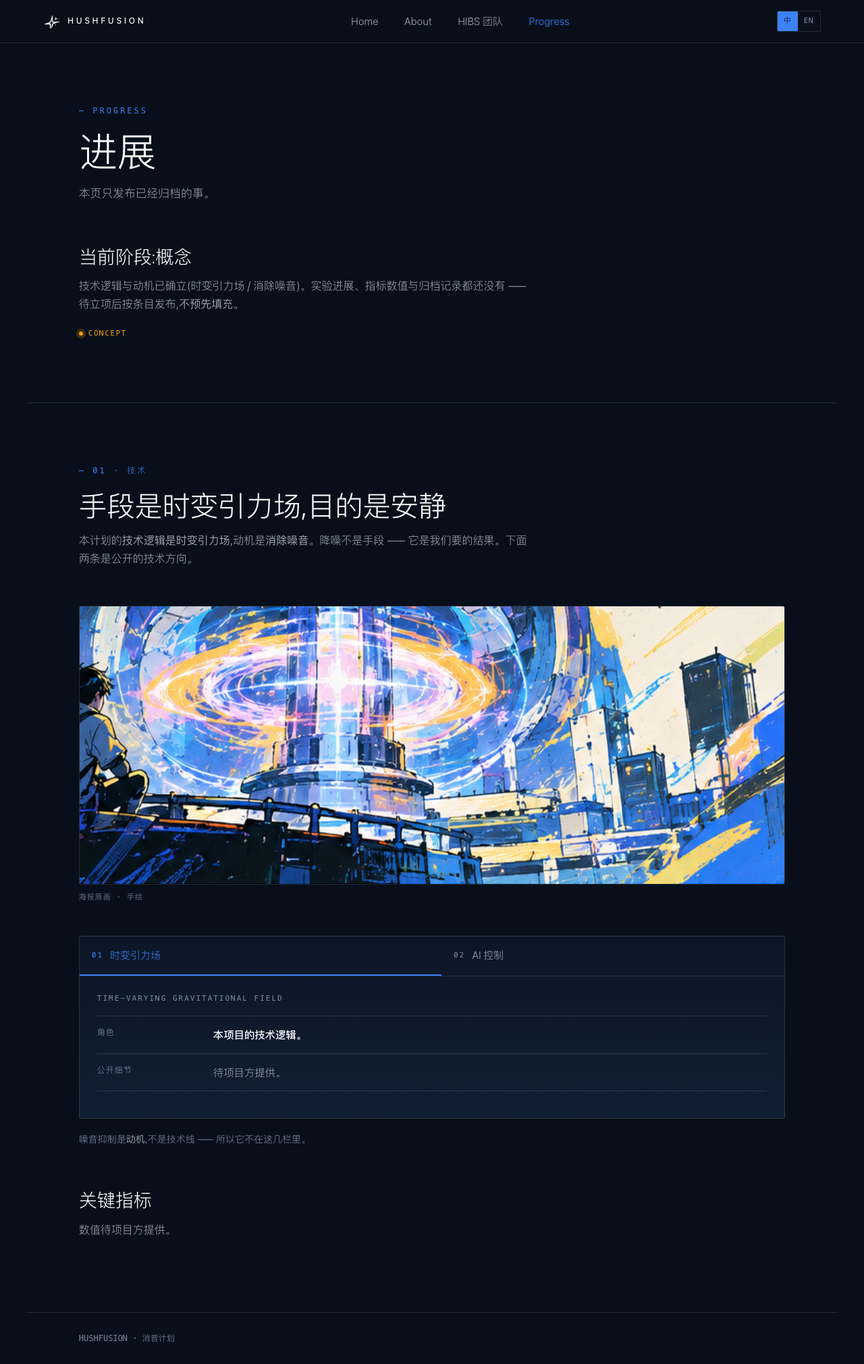
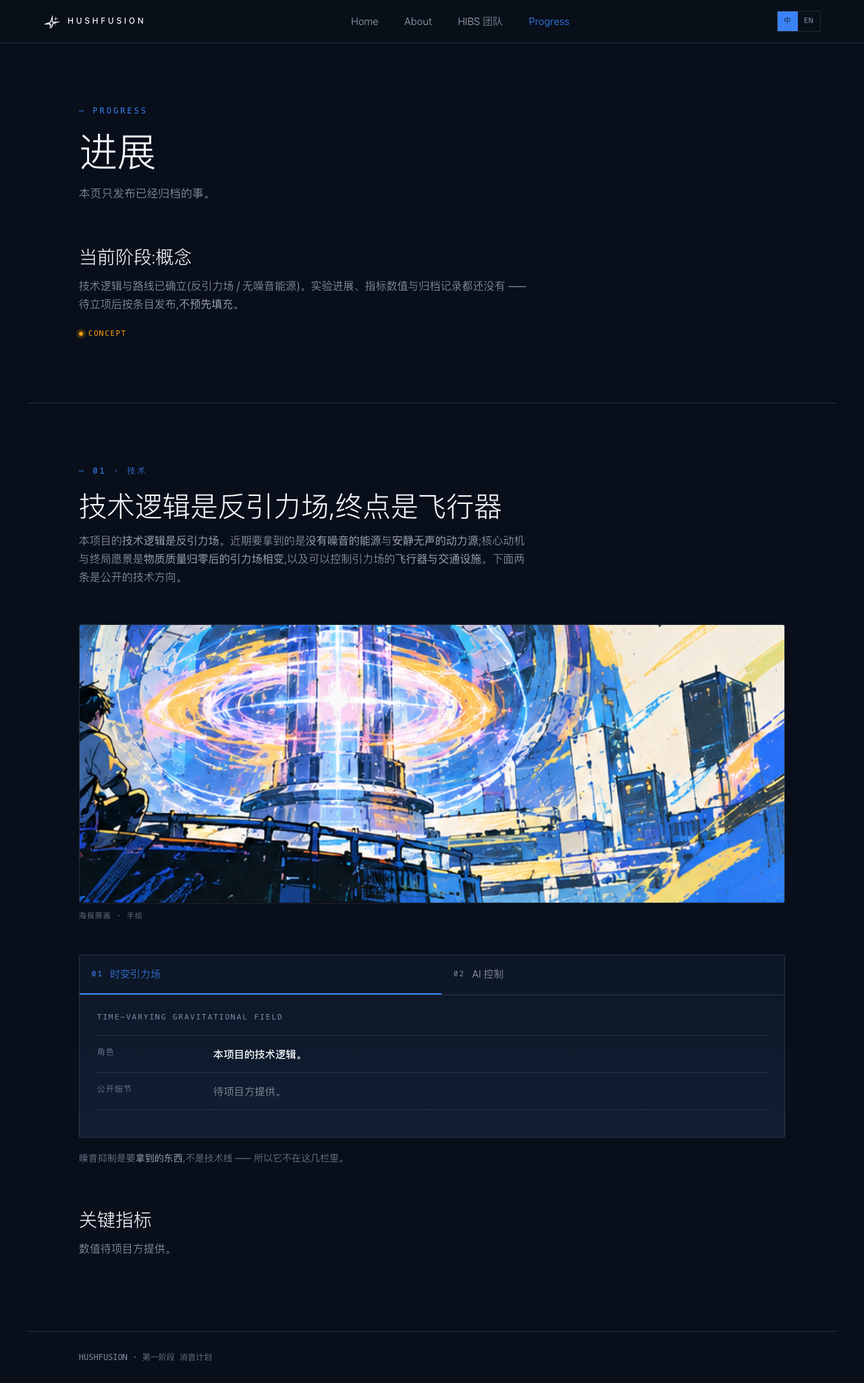
feat(content): 动机升格为可控引力场飞行器,消音计划降为第一阶段
需方 2026-09-17 口述(逐字存档见 docs/CONTENT-SOURCES.md §二·六):
  用反引力场做到无噪音、无限能源,制造安静无声的动力源;
  最核心的动机是可以控制引力场的飞行器交通设施;
  消音计划改成阶段性;最核心的愿景是物质质量归零后的引力场相变,以及后续的飞行器。

序页(需方要求:序页里要写愿景、物质质量归零)
- 新增愿景段「物质质量归零,引力场发生相变 —— 我们要抵达的地方,是可以控制引力场的飞行器与交通设施。」
- 摘要段改为「用反引力场做到两件事:没有噪音与无限能源,并由此得到安静无声的动力源。」
- 新增 mono 路径链:反引力场 → 无噪音 · 无限能源 → 安静无声的动力源 → 物质质量归零 →
  引力场相变 → 可控引力场飞行器(取代旧的一句话口径)
- 消音计划加 .intro-phase「第一阶段」徽标 —— 消音保留但不再占主要篇幅

全站
- 01 节「让世界更安静」→「从动力源到飞行器」,导语改为「消音只是第一段」
- 关于页 h1 →「为什么是聚变,为什么是引力场」;「技术逻辑与动机」→「技术逻辑 · 动机 · 愿景」四层
- 技术页 h2 →「技术逻辑是反引力场,终点是飞行器」;口径段四层重写
- 四页标题/描述/页脚同步(页脚:第一阶段 消音计划);?v=12 → 13
- 文案纪律:只修饰措辞,不增加源里没有的事实(飞行器形态/速度/载重、相变机制、指标时间点一律不写)

文档
- CONTENT-SOURCES.md:口径表升格 + 新增 §二·六(需方原话逐字 + 逐句对应表 + 明确列出没写进去的东西)
- DESIGN-PLAN.md:§0 口径更新、§7.5.2 本轮改写留档;README 中英同步

验收:本地 111/111,线上 111/111

diff --git a/index.html b/index.html
@@ -3,11 +3,11 @@
 <head>
 <meta charset="UTF-8">
 <meta name="viewport" content="width=device-width, initial-scale=1">
-<title>HUSHFUSION 消音计划 — 可控核聚变,在寂静中点燃星辰</title>
-<meta name="description" content="HUSHFUSION 消音计划:技术逻辑是时变引力场。Controlled Fusion Through the Silence.">
+<title>HUSHFUSION — 反引力场 · 无噪音能源 · 可控引力场飞行器</title>
+<meta name="description" content="HUSHFUSION:用反引力场换取没有噪音的能源与安静无声的动力源;终局是物质质量归零后的引力场相变,以及可控引力场的飞行器。消音计划是第一阶段。">
 <link rel="icon" href="icons/favicon-32.png" sizes="32x32">
 <link rel="apple-touch-icon" href="icons/apple-touch-icon.png">
-<link rel="stylesheet" href="style.css?v=12">
+<link rel="stylesheet" href="style.css?v=13">
 </head>
 <body>
 
@@ -50,15 +50,13 @@
   <!-- ◆ 序厅 -->
   <section class="intro" id="intro">
     <div class="intro-inner">
-      <p class="kicker">Controlled Fusion · Time-Varying Gravity · AI Control</p>
+      <p class="kicker" data-zh="反引力场 · 无噪音能源 · 可控引力场飞行器" data-en="Anti-Gravity Field · Silent Energy · Gravity-Controlled Flight">反引力场 · 无噪音能源 · 可控引力场飞行器</p>
       <h1 class="intro-h1">HUSHFUSION</h1>
-      <p class="intro-cn">消音计划</p>
+      <p class="intro-cn">消音计划<span class="intro-phase">第一阶段</span></p>
       <p class="intro-en">Controlled Fusion Through the Silence.</p>
-      <p class="lede" data-zh="HUSHFUSION 是一个以可控核聚变为核心的科研项目,技术逻辑是 <strong>时变引力场</strong>。我们相信,真正的能源自由,源于对混乱的掌控与对宁静的追求。" data-en="HUSHFUSION is a research project built around controlled fusion; its technical logic is a <strong>time-varying gravitational field</strong>. We believe real energy freedom comes from mastering chaos and pursuing quiet." data-html="1">HUSHFUSION 是一个以可控核聚变为核心的科研项目,技术逻辑是 <strong>时变引力场</strong>。我们相信,真正的能源自由,源于对混乱的掌控与对宁静的追求。</p>
-            <p class="lede" style="margin-top:14px"
-         data-zh="技术逻辑是 &lt;strong&gt;时变引力场&lt;/strong&gt;,动机是 &lt;strong&gt;消除噪音&lt;/strong&gt;。"
-         data-en="The technical logic is a &lt;strong&gt;time-varying gravitational field&lt;/strong&gt;; the motive is &lt;strong&gt;silencing noise&lt;/strong&gt;."
-         data-html="1">技术逻辑是 <strong>时变引力场</strong>,动机是 <strong>消除噪音</strong>。</p>
+      <p class="lede" data-zh="物质质量归零,引力场发生相变 —— 我们要抵达的地方,是&lt;strong&gt;可以控制引力场的飞行器与交通设施&lt;/strong&gt;。" data-en="Mass goes to zero and the gravitational field undergoes a phase transition — where we are headed is &lt;strong&gt;flight vehicles and transport infrastructure built on a controlled gravitational field&lt;/strong&gt;." data-html="1">物质质量归零,引力场发生相变 —— 我们要抵达的地方,是<strong>可以控制引力场的飞行器与交通设施</strong>。</p>
+      <p class="lede" style="margin-top:14px" data-zh="HUSHFUSION 是一个以可控核聚变为起点的科研项目,用&lt;strong&gt;反引力场&lt;/strong&gt;做到两件事:&lt;strong&gt;没有噪音&lt;/strong&gt;与&lt;strong&gt;无限能源&lt;/strong&gt;,并由此得到安静无声的动力源。" data-en="HUSHFUSION starts from controlled fusion and uses an &lt;strong&gt;anti-gravity field&lt;/strong&gt; to achieve two things — &lt;strong&gt;no noise&lt;/strong&gt; and &lt;strong&gt;unlimited energy&lt;/strong&gt; — yielding a power source that is silent." data-html="1">HUSHFUSION 是一个以可控核聚变为起点的科研项目,用<strong>反引力场</strong>做到两件事:<strong>没有噪音</strong>与<strong>无限能源</strong>,并由此得到安静无声的动力源。</p>
+            <p class="intro-path" data-zh="反引力场 → 无噪音 · 无限能源 → 安静无声的动力源 → 物质质量归零 → 引力场相变 → 可控引力场飞行器" data-en="Anti-gravity field → no noise · unlimited energy → silent power → mass to zero → gravitational phase transition → gravity-controlled flight">反引力场 → 无噪音 · 无限能源 → 安静无声的动力源 → 物质质量归零 → 引力场相变 → 可控引力场飞行器</p>
       <div class="intro-cta">
         <a class="quiet-cta quiet-cta--solid" href="progress.html#tech">探索更多 <span aria-hidden="true">→</span></a>
         <a class="quiet-cta" href="progress.html">阅读进展</a>
@@ -90,8 +88,8 @@
   <section class="band" id="quiet">
     <div class="section-head reveal">
       <p class="kicker">— 01 · 它要解决什么</p>
-      <h2 class="section-title" data-zh="让世界更安静" data-en="Making fusion quieter">让世界更安静</h2>
-      <p class="section-lede" data-zh="聚变的难点不是「点火」,而是<strong>把混乱按住</strong>。等离子体每一毫秒都在抖,我们要的不是更响的控制,而是一个安静的场 —— 这就是「消音」的含义。" data-en="The hard part of fusion is not ignition — it is <strong>holding the chaos still</strong>. The plasma wobbles every millisecond; what we want is not louder control but a quieter field — that is what “hush” means." data-html="1">聚变的难点不是「点火」,而是<strong>把混乱按住</strong>。等离子体每一毫秒都在抖,我们要的不是更响的控制,而是一个安静的场 —— 这就是「消音」的含义。</p>
+      <h2 class="section-title" data-zh="从动力源到飞行器" data-en="From a power source to flight">从动力源到飞行器</h2>
+      <p class="section-lede" data-zh="聚变的难点不是「点火」,而是把混乱按住 —— 但消音只是第一段。这条路通向的是&lt;strong&gt;物质质量归零后的引力场相变&lt;/strong&gt;。" data-en="The hard part of fusion is not ignition but holding the chaos still — yet silencing is only the first stretch. The road leads to &lt;strong&gt;the gravitational phase transition that follows mass going to zero&lt;/strong&gt;." data-html="1">聚变的难点不是「点火」,而是把混乱按住 —— 但消音只是第一段。这条路通向的是<strong>物质质量归零后的引力场相变</strong>。</p>
     </div>
 
     <div class="split reveal">
@@ -134,10 +132,7 @@
     <div class="section-head reveal">
       <p class="kicker">— 02 · Status</p>
       <h2 class="section-title" data-zh="当前阶段" data-en="Current stage">当前阶段</h2>
-      <p class="section-lede"
-         data-zh="项目处于&lt;strong&gt;概念阶段&lt;/strong&gt;:技术逻辑与动机已确立,实验进展待立项后按归档发布。"
-         data-en="The project is at the &lt;strong&gt;concept stage&lt;/strong&gt;: the technical logic and the motive are settled; experimental progress will be published once it is archived."
-         data-html="1">项目处于<strong>概念阶段</strong>:技术逻辑与动机已确立,实验进展待立项后按归档发布。</p>
+      <p class="section-lede" data-zh="第一阶段「消音计划」处于&lt;strong&gt;概念阶段&lt;/strong&gt;:技术逻辑与路线已确立,实验进展待立项后按归档发布。" data-en="The first phase — the hush plan — is at the &lt;strong&gt;concept stage&lt;/strong&gt;: the technical logic and the route are settled; experimental progress is published once archived." data-html="1">第一阶段「消音计划」处于<strong>概念阶段</strong>:技术逻辑与路线已确立,实验进展待立项后按归档发布。</p>
     </div>
     <p><span class="status">Concept</span></p>
     <p style="margin-top:26px"><a class="see-all" href="progress.html"
@@ -150,10 +145,10 @@
 
 <!-- ◆ 页脚 -->
 <footer class="foot">
-  <span>HUSHFUSION · 消音计划</span>
+  <span>HUSHFUSION · 第一阶段 消音计划</span>
   <span>Controlled Fusion Through the Silence.</span>
 </footer>
 
-<script src="app.js?v=12" defer></script>
+<script src="app.js?v=13" defer></script>
 </body>
 </html>

diff --git a/about.html b/about.html
@@ -3,11 +3,11 @@
 <head>
 <meta charset="UTF-8">
 <meta name="viewport" content="width=device-width, initial-scale=1">
-<title>关于 · HUSHFUSION 消音计划</title>
-<meta name="description" content="HUSHFUSION 的项目自述:为什么是聚变,为什么是「消音」。">
+<title>关于 · HUSHFUSION</title>
+<meta name="description" content="HUSHFUSION 的项目自述:技术逻辑是反引力场,近期要拿到没有噪音的能源与安静无声的动力源,终局愿景是物质质量归零后的引力场相变与可控引力场的飞行器。">
 <link rel="icon" href="icons/favicon-32.png" sizes="32x32">
 <link rel="apple-touch-icon" href="icons/apple-touch-icon.png">
-<link rel="stylesheet" href="style.css?v=12">
+<link rel="stylesheet" href="style.css?v=13">
 </head>
 <body>
 
@@ -39,21 +39,15 @@
   <section class="band" id="about">
     <div class="section-head reveal">
       <p class="kicker">— About · 项目自述</p>
-      <h1 class="display" data-zh="为什么是聚变,<br>为什么是「消音」" data-en="Why fusion,<br>and why “hush”" data-html="1">为什么是聚变,<br>为什么是「消音」</h1>
-      <p class="lede" data-zh="HUSHFUSION 是一个以可控核聚变为核心的科研项目,技术逻辑是 <strong>时变引力场</strong>。我们相信,真正的能源自由,源于对混乱的掌控与对宁静的追求。" data-en="HUSHFUSION is a research project built around controlled fusion; its technical logic is a <strong>time-varying gravitational field</strong>. We believe real energy freedom comes from mastering chaos and pursuing quiet." data-html="1">HUSHFUSION 是一个以可控核聚变为核心的科研项目,技术逻辑是 <strong>时变引力场</strong>。我们相信,真正的能源自由,源于对混乱的掌控与对宁静的追求。</p>
+      <h1 class="display" data-zh="为什么是聚变,&lt;br&gt;为什么是引力场" data-en="Why fusion,&lt;br&gt;and why a gravitational field" data-html="1">为什么是聚变,<br>为什么是引力场</h1>
+      <p class="lede" data-zh="HUSHFUSION 从可控核聚变起步,用&lt;strong&gt;反引力场&lt;/strong&gt;换取没有噪音的能源与安静无声的动力源;再往前,是物质质量归零后的引力场相变,与可以控制引力场的飞行器。" data-en="HUSHFUSION starts from controlled fusion and uses an &lt;strong&gt;anti-gravity field&lt;/strong&gt; to obtain energy without noise and a silent power source; further ahead lie the gravitational phase transition that follows mass going to zero, and gravity-controlled flight vehicles." data-html="1">HUSHFUSION 从可控核聚变起步,用<strong>反引力场</strong>换取没有噪音的能源与安静无声的动力源;再往前,是物质质量归零后的引力场相变,与可以控制引力场的飞行器。</p>
     </div>
 
     <div class="split reveal">
       <div>
-        <p class="kicker kicker--muted">技术逻辑与动机</p>
-        <p style="font-size:1.05rem;color:var(--ink-2);max-width:38em">
-          <span class="hl">技术逻辑</span>:时变引力场。
-          <span class="hl">动机</span>:消除噪音。
-        </p>
-        <p style="font-size:1.05rem;color:var(--ink-2);max-width:38em;margin-top:14px">
-          名字里的 <span class="hl">HUSH</span> 指的就是这个动机 ——
-          让聚变不再是轰鸣,而是安静的。
-        </p>
+        <p class="kicker kicker--muted">技术逻辑 · 动机 · 愿景</p>
+        <p style="font-size:1.05rem;color:var(--ink-2);max-width:38em" data-zh="&lt;span class="hl"&gt;技术逻辑&lt;/span&gt;:反引力场。&lt;span class="hl"&gt;近期产出&lt;/span&gt;:没有噪音的能源、无限能源、安静无声的动力源。&lt;span class="hl"&gt;核心动机&lt;/span&gt;:可以控制引力场的飞行器与交通设施。&lt;span class="hl"&gt;终局愿景&lt;/span&gt;:物质质量归零后的引力场相变。" data-en="&lt;span class="hl"&gt;Technical logic&lt;/span&gt;: an anti-gravity field. &lt;span class="hl"&gt;Near-term outputs&lt;/span&gt;: energy without noise, unlimited energy, a silent power source. &lt;span class="hl"&gt;Core motive&lt;/span&gt;: flight vehicles and transport infrastructure built on a controlled gravitational field. &lt;span class="hl"&gt;Endgame&lt;/span&gt;: the gravitational phase transition that follows mass going to zero." data-html="1"><span class="hl">技术逻辑</span>:反引力场。<span class="hl">近期产出</span>:没有噪音的能源、无限能源、安静无声的动力源。<span class="hl">核心动机</span>:可以控制引力场的飞行器与交通设施。<span class="hl">终局愿景</span>:物质质量归零后的引力场相变。</p>
+        <p style="font-size:1.05rem;color:var(--ink-2);max-width:38em;margin-top:14px" data-zh="名字里的 &lt;span class="hl"&gt;HUSH&lt;/span&gt; 只覆盖第一阶段 —— 让聚变不再是轰鸣,而是安静的。" data-en="The &lt;span class="hl"&gt;HUSH&lt;/span&gt; in the name covers only the first phase — making fusion stop roaring and go quiet." data-html="1">名字里的 <span class="hl">HUSH</span> 只覆盖第一阶段 —— 让聚变不再是轰鸣,而是安静的。</p>
         <p class="intro-en" style="margin-top:22px">Controlled Fusion Through the Silence.</p>
       </div>
       <figure class="paper-chip" style="text-align:center">
@@ -79,7 +73,7 @@
       <li><span class="cap-no">04</span><div class="cap-body">
         <h3>Clean Energy</h3><p>清洁能源方向。</p></div></li>
       <li><span class="cap-no">05</span><div class="cap-body">
-        <h3>A Quieter Future</h3><p>目标不是一个更响亮的机器,而是一个更美好平静的星球。</p></div></li>
+        <h3>A Quieter Future</h3><p data-zh="安静只是第一段。终点是物质质量归零后的引力场相变,与可控引力场的飞行器。" data-en="Quiet is only the first stretch. The endpoint is the gravitational phase transition that follows mass going to zero, and gravity-controlled flight.">安静只是第一段。终点是物质质量归零后的引力场相变,与可控引力场的飞行器。</p></div></li>
     </ol>
     <figure class="reveal" style="margin-top:34px;max-width:420px">
       <img src="assets/brand/list-frc.png" alt="海报上的手写要点清单原件"
@@ -106,9 +100,9 @@
 </main>
 
 <footer class="foot">
-  <span>HUSHFUSION · 消音计划</span>
+  <span>HUSHFUSION · 第一阶段 消音计划</span>
 </footer>
 
-<script src="app.js?v=12" defer></script>
+<script src="app.js?v=13" defer></script>
 </body>
 </html>

diff --git a/progress.html b/progress.html
@@ -3,11 +3,11 @@
 <head>
 <meta charset="UTF-8">
 <meta name="viewport" content="width=device-width, initial-scale=1">
-<title>进展与技术 · HUSHFUSION 消音计划</title>
-<meta name="description" content="HUSHFUSION 的进展与技术口径:技术逻辑是时变引力场,动机是消除噪音。">
+<title>进展与技术 · HUSHFUSION</title>
+<meta name="description" content="HUSHFUSION 的进展与技术口径:技术逻辑是反引力场,核心动机是可以控制引力场的飞行器与交通设施。">
 <link rel="icon" href="icons/favicon-32.png" sizes="32x32">
 <link rel="apple-touch-icon" href="icons/apple-touch-icon.png">
-<link rel="stylesheet" href="style.css?v=12">
+<link rel="stylesheet" href="style.css?v=13">
 </head>
 <body>
 
@@ -50,9 +50,9 @@
       <h2 class="section-title" style="font-size:clamp(1.25rem,2.2vw,1.7rem)"
           data-zh="当前阶段:概念" data-en="Current stage: concept">当前阶段:概念</h2>
       <p class="section-lede"
-         data-zh="技术逻辑与动机已确立(时变引力场 / 消除噪音)。实验进展、指标数值与归档记录都还没有 —— 待立项后按条目发布,&lt;strong&gt;不预先填充&lt;/strong&gt;。"
-         data-en="The technical logic and the motive are settled (anti-gravity field / silencing noise). Experimental progress, metric values and archives do not exist yet — they will be published entry by entry once the project starts, and are &lt;strong&gt;not pre-filled&lt;/strong&gt;."
-         data-html="1">技术逻辑与动机已确立(时变引力场 / 消除噪音)。实验进展、指标数值与归档记录都还没有 —— 待立项后按条目发布,<strong>不预先填充</strong>。</p>
+         data-zh="技术逻辑与路线已确立(反引力场 / 无噪音能源)。实验进展、指标数值与归档记录都还没有 —— 待立项后按条目发布,&lt;strong&gt;不预先填充&lt;/strong&gt;。"
+         data-en="The technical logic and the route are settled (anti-gravity field / energy without noise). Experimental progress, metric values and archives do not exist yet — they will be published entry by entry once the project starts, and are &lt;strong&gt;not pre-filled&lt;/strong&gt;."
+         data-html="1">技术逻辑与路线已确立(反引力场 / 无噪音能源)。实验进展、指标数值与归档记录都还没有 —— 待立项后按条目发布,<strong>不预先填充</strong>。</p>
     </div>
     <p><span class="status">Concept</span></p>
   </section>
@@ -61,11 +61,8 @@
   <section class="band" id="tech">
     <div class="section-head reveal">
       <p class="kicker">— 01 · 技术</p>
-      <h2 class="section-title" data-zh="手段是时变引力场,目的是安静" data-en="The method is a time-varying gravitational field; the goal is quiet">手段是时变引力场,目的是安静</h2>
-      <p class="section-lede"
-         data-zh="本计划的&lt;strong&gt;技术逻辑是时变引力场&lt;/strong&gt;,动机是&lt;strong&gt;消除噪音&lt;/strong&gt;。降噪不是手段 —— 它是我们要的结果。下面两条是公开的技术方向。"
-         data-en="The &lt;strong&gt;technical logic of this project is a time-varying gravitational field&lt;/strong&gt;; the motive is &lt;strong&gt;silencing noise&lt;/strong&gt;. Noise suppression is not the method — it is the result we want. Two directions are public so far."
-         data-html="1">本计划的<strong>技术逻辑是时变引力场</strong>,动机是<strong>消除噪音</strong>。降噪不是手段 —— 它是我们要的结果。下面两条是公开的技术方向。</p>
+      <h2 class="section-title" data-zh="技术逻辑是反引力场,终点是飞行器" data-en="The technical logic is an anti-gravity field; the endpoint is flight">技术逻辑是反引力场,终点是飞行器</h2>
+      <p class="section-lede" data-zh="本项目的&lt;strong&gt;技术逻辑是反引力场&lt;/strong&gt;。近期要拿到的是&lt;strong&gt;没有噪音的能源&lt;/strong&gt;与&lt;strong&gt;安静无声的动力源&lt;/strong&gt;;核心动机与终局愿景是&lt;strong&gt;物质质量归零后的引力场相变&lt;/strong&gt;,以及可以控制引力场的&lt;strong&gt;飞行器与交通设施&lt;/strong&gt;。下面两条是公开的技术方向。" data-en="The &lt;strong&gt;technical logic of this project is an anti-gravity field&lt;/strong&gt;. The near-term outputs are &lt;strong&gt;energy without noise&lt;/strong&gt; and a &lt;strong&gt;silent power source&lt;/strong&gt;; the core motive and the endgame are &lt;strong&gt;the gravitational phase transition that follows mass going to zero&lt;/strong&gt;, and the &lt;strong&gt;flight vehicles and transport infrastructure&lt;/strong&gt; built on a controlled gravitational field. Two directions are public so far." data-html="1">本项目的<strong>技术逻辑是反引力场</strong>。近期要拿到的是<strong>没有噪音的能源</strong>与<strong>安静无声的动力源</strong>;核心动机与终局愿景是<strong>物质质量归零后的引力场相变</strong>,以及可以控制引力场的<strong>飞行器与交通设施</strong>。下面两条是公开的技术方向。</p>
     </div>
 
     <figure class="reveal" style="margin:0 0 clamp(28px,4vw,48px)">
@@ -99,7 +96,7 @@
       </div>
     </div>
     <p style="color:var(--ink-3);font-size:.875rem;margin-top:18px">
-      噪音抑制是<strong style="color:var(--ink-2);font-weight:400">动机</strong>,不是技术线 —— 所以它不在这几栏里。
+      噪音抑制是要<strong style="color:var(--ink-2);font-weight:400">拿到的东西</strong>,不是技术线 —— 所以它不在这几栏里。
     </p>
 
     <div class="section-head reveal" style="margin-top:clamp(36px,5vw,64px);margin-bottom:18px">
@@ -115,9 +112,9 @@
 </main>
 
 <footer class="foot">
-  <span>HUSHFUSION · 消音计划</span>
+  <span>HUSHFUSION · 第一阶段 消音计划</span>
 </footer>
 
-<script src="app.js?v=12" defer></script>
+<script src="app.js?v=13" defer></script>
 </body>
 </html>

diff --git a/hibs.html b/hibs.html
@@ -3,11 +3,11 @@
 <head>
 <meta charset="UTF-8">
 <meta name="viewport" content="width=device-width, initial-scale=1">
-<title>HIBS 团队 · HUSHFUSION 消音计划</title>
+<title>HIBS 团队 · HUSHFUSION</title>
 <meta name="description" content="HUSHFUSION 由 HIBS 团队承担:四条回路、协作方式与加入方式。">
 <link rel="icon" href="icons/favicon-32.png" sizes="32x32">
 <link rel="apple-touch-icon" href="icons/apple-touch-icon.png">
-<link rel="stylesheet" href="style.css?v=12">
+<link rel="stylesheet" href="style.css?v=13">
 </head>
 <body>
 
@@ -80,9 +80,9 @@
 </main>
 
 <footer class="foot">
-  <span>HUSHFUSION · 消音计划</span>
+  <span>HUSHFUSION · 第一阶段 消音计划</span>
 </footer>
 
-<script src="app.js?v=12" defer></script>
+<script src="app.js?v=13" defer></script>
 </body>
 </html>

diff --git a/style.css b/style.css
@@ -175,6 +175,15 @@ section.band + section.band { border-top: 1px solid var(--hairline); }
   letter-spacing: 2px; color: var(--ink-2); margin-top: 12px; text-transform: uppercase;
 }
 .intro-cta { display: flex; flex-wrap: wrap; gap: 12px; margin-top: 34px; }
+.intro-phase {
+  font-family: var(--mono); font-size: .42em; letter-spacing: 2px; color: var(--accent);
+  border: 1px solid var(--hairline-strong); border-radius: 2px;
+  padding: 2px 7px; margin-left: 12px; vertical-align: middle; white-space: nowrap;
+}
+.intro-path {
+  font-family: var(--mono); font-size: clamp(.72rem, 1.3vw, .84rem);
+  letter-spacing: 1px; color: var(--ink-3); margin-top: 18px; line-height: 1.9;
+}
 
 .quiet-cta {
   display: inline-flex; align-items: center; gap: 8px;

diff --git a/docs/DESIGN-PLAN.md b/docs/DESIGN-PLAN.md
@@ -10,8 +10,10 @@
 
 为 **HUSHFUSION(消音计划)** 构建一个**深色、展览式、零构建**的静态品牌站:
 
-0. **口径(需方指定)**:本计划的**技术逻辑是时变引力场**(2026-09-17 口径;此前表述为「反引力场」),**动机是消除噪音**。
-   因此「降噪」在文案里只能当动机写,不能当技术写;「时变引力场」也不做机制展开
+0. **口径(需方指定,2026-09-17 升格)**:本计划的**技术逻辑是反引力场**;近期产出是**没有噪音的能源、无限能源,
+   以及安静无声的动力源**;**核心动机**是**可以控制引力场的飞行器与交通设施**;**终局愿景**是**物质质量归零后的引力场相变**。
+   「消音计划」降为**第一阶段**的命名(阶段性),消音仍可出现但不占主要篇幅;**愿景必须出现在序页**。
+   因此「降噪」只能当「要拿到的东西」写,不能当技术写;技术栏 01 沿用海报原词 `Time-Varying Gravitational Field`,不做机制展开
    (源素材里没有),只作为口径句出现。详见 `docs/design-brief.md` §〇。
 1. **素材是最高优先级**:整站的取色、字重对比、留白与节奏,全部从一张手绘海报反推;素材的构图与颜色不被修改。
 2. **只用一支强调色**:品牌蓝。琥珀色只允许出现在「状态点」一处。
@@ -214,7 +216,7 @@ section 标题    clamp(1.6rem, 3.4vw, 2.6rem)
         右:art-tokamak.png(含海报角标与批注,图注写明)
 [展示栏] Time-Varying Gravity · AI Control · Noise Suppression · Clean Energy · A Quieter Future(无缝循环;
         第 1 项按需方口径由海报原词 FRC 换成时变引力场)
-[01 能力] section 头 + 双栏:左 5 条序号列表(时变引力场 / AI 智能控制 / 噪音抑制 / 清洁能源 / 更安静的将来),
+[01 从动力源到飞行器] section 头 + 双栏:左 5 条序号列表(时变引力场 / AI 智能控制 / 噪音抑制 / 清洁能源 / 更安静的将来),
         其中「噪音抑制」一条写明**它是动机、不是手段**
         右 plasma-ring.png(1:1,宽 340px 上限)
 [02 当前阶段] section 头 + 状态句 + .status「Concept」
@@ -226,7 +228,7 @@ section 标题    clamp(1.6rem, 3.4vw, 2.6rem)
 
 三页已从站上删除,只留结构摘要,便于将来按需重建(原始文件备份在 `/tmp/hushfusion-pages-backup/`):
 
-* **about**:自述 + 「技术逻辑与动机」段(时变引力场 / 消除噪音 + 手写标语纸块)
+* **about**:自述(反引力场 / 无噪音能源 / 可控引力场飞行器)+ 「技术逻辑 · 动机 · 愿景」段 + 手写标语纸块
   → 五个支点(序号列表:Time-Varying Gravitational Field / AI Control / Noise Suppression /
   Clean Energy / A Quieter Future)+ 手写清单原件 → 「待补充」占位块(机构 / 时间线 / 合作 / 法务)。
 * **progress**:序厅 → 「当前阶段:概念」→ 技术节(口径 h2 + 横裁图 + 标签框 01 时变引力场 / 02 AI 控制)→
@@ -459,3 +461,21 @@ node scripts/verify-site.mjs http://127.0.0.1:8898
 [ ] 冻结前:§12 六个待批准项逐条出结论
 [ ] 需方补齐 docs/CONTENT-SOURCES.md 里标「待填」的内容
 ```
+
+### 7.5.2 2026-09-17 追加:动机升格,消音降为第一阶段(内容级改写)
+
+| 改写 | 说明 |
+|:--|:--|
+| 序页新增**愿景段**「物质质量归零,引力场发生相变 —— 我们要抵达的地方,是可以控制引力场的飞行器与交通设施。」 | 需方要求「序页里面要写愿景,物质质量归零」 |
+| 序厅 `消音计划` 加 `.intro-phase` 徽标「第一阶段」 | 「把消音计划改成阶段性」 |
+| 序厅摘要段改为「用反引力场做到两件事:没有噪音与无限能源,并由此得到安静无声的动力源」 | 消音不再占主要篇幅 |
+| 序厅新增**路径链**(mono):反引力场 → 无噪音 · 无限能源 → 安静无声的动力源 → 物质质量归零 → 引力场相变 → 可控引力场飞行器 | 取代旧的「技术逻辑/动机」一句话口径 |
+| 01 节标题 `让世界更安静` → `从动力源到飞行器`;导语改到「消音只是第一段」 | 消音降级 |
+| 关于页 h1 `为什么是聚变,为什么是「消音」` → `为什么是聚变,为什么是引力场`;「技术逻辑与动机」→「技术逻辑 · 动机 · 愿景」四层 | 同上 |
+| 技术页 h2 `手段是时变引力场,目的是安静` → `技术逻辑是反引力场,终点是飞行器` | 同上 |
+| 四页标题/页脚/描述同步;`?v=12 → 13` | — |
+| ~~progres 里`降噪不是手段 —— 它是我们要的结果`~~ | 已删,改为「噪音抑制是**要拿到的东西**,不是技术线」 |
+
+> 每句新文案的来源存档见 `docs/CONTENT-SOURCES.md` §二·六(含需方原话逐字)。
+> **未写进去的**:飞行器形态/速度/载重、相变机制、任何指标或时间点 —— 源里没有就不编。
+

diff --git a/docs/CONTENT-SOURCES.md b/docs/CONTENT-SOURCES.md
@@ -56,8 +56,12 @@
 
 | 口径 | 说明 | 落点 |
 |:--|:--|:--|
-| **技术逻辑是时变引力场** | 源图里没有任何「时变引力场」字样;这是需方给定的口径(2026-09-17,此前表述为「反引力场」) | 序厅口径句、关于页「口径」段、技术页首段 |
-| **动机是消除噪音** | 源图有 `Noise Suppression` 与「噪音,是混乱的信号」批注,**动机**这一层是需方明确的;文案里不再把它写成技术本身 | 同上 |
+| **技术逻辑是反引力场** | 源图里没有这个字样;需方口径。**2026-09-17 重新表述为「反引力场」**(介于此前的「反引力场」与「时变引力场」之间);技术页 01 栏位名仍沿用海报原词 `Time-Varying Gravitational Field` —— 两词是否统一待需方确认 | 序厅摘要段/路径链、关于页「技术逻辑 · 动机 · 愿景」段、技术页首段 |
+| **近期产出 = 没有噪音 · 无限能源 → 安静无声的动力源** | 需方 2026-09-17 口述 | 同上 |
+| **核心动机 = 可以控制引力场的飞行器与交通设施** | 需方 2026-09-17 口述,「最核心的动机」 | 序厅愿景段、关于页、技术页 |
+| **终局愿景 = 物质质量归零后的引力场相变** | 需方 2026-09-17 口述,「最核心的愿景」 | 序厅愿景段(愿景必须出现在序页) |
+| **消音计划 = 第一阶段(阶段性命名)** | 需方 2026-09-17:「把消音计划改成阶段性」;消音仍可出现,但不占主要篇幅 | `.intro-phase` 徽标、02 当前阶段、关于页 HUSH 一段、页脚 |
+| ~~动机是消除噪音~~ | **已被取代**:降噪现在写作「近期产出」之一,不再是最高层动机 | — |
 | **团队归属 HIBS 团队** | 源稿导航此项原文是 `Team` | 四页顶栏 + `hibs.html` |
 | **顶栏字标用文字渲染** | 源图字标只有 102×19 | 六页顶栏 `.brand-word` |
 
@@ -68,6 +72,24 @@
 那些信息只允许留在本文件与 `docs/ASSETS.md` 里。
 
 ---
+
+## 二·六 [需方指定] 2026-09-17 动机升格(本轮全部新增文案的唯一来源)
+
+需方原话(逐字):
+
+> 我要的是使用反引力场做到无噪音,无限能源,制造安静无声的动力源,但是最核心的动机是制造可以控制引力场的飞行器交通设施。把消音计划改成阶段性,最核心的愿景还是物质质量归零后的引力场相变,以及后续的飞行器。
+
+上表之外的每一句新文案都可以指回这一段;措辞是修饰,**没有增加任何源里没有的事实**:
+
+| 页面文案 | 对应原话 |
+|:--|:--|
+| 序厅「物质质量归零,引力场发生相变 —— 我们要抵达的地方,是可以控制引力场的飞行器与交通设施。」 | 「最核心的愿景还是物质质量归零后的引力场相变,以及后续的飞行器」 |
+| 序厅摘要段「用反引力场做到两件事:没有噪音与无限能源,并由此得到安静无声的动力源。」 | 「使用反引力场做到无噪音,无限能源,制造安静无声的动力源」 |
+| 序厅路径链「反引力场 → 无噪音 · 无限能源 → 安静无声的动力源 → 物质质量归零 → 引力场相变 → 可控引力场飞行器」 | 同两段原话的顺序重述 |
+| 关于页「核心动机:可以控制引力场的飞行器与交通设施。」 | 「最核心的动机是制造可以控制引力场的飞行器交通设施」 |
+| 序厅徽标 / 02 当前阶段「第一阶段」 | 「把消音计划改成阶段性」 |
+
+**没有**写进去的(源里没有、也不许编): 飞行器的形态/速度/载重、相变的具体物理机制、任何指标或时间点。
 
 ## 三 [待填] 源素材中不存在,页面显式留占位
 

diff --git a/README.en.md b/README.en.md
@@ -104,7 +104,7 @@ reads as a blank page and you would "confirm" a broken site.
 | 1 | Design decisions still awaiting approval (printed vs sampled accent colour, paper blocks vs transparency…) | `docs/DESIGN-PLAN.md` §12 |
 | 2 | Vector / high-resolution re-draw of low-res assets (marks, app icon, illustration) | `docs/DESIGN-PLAN.md` §10.3 |
 | 3 | Client-side content still marked `[待填]` (names, metrics, email, milestones) | `docs/CONTENT-SOURCES.md` §3 |
-| 4 | Rewording the logic/motive sentence (time-varying gravity / silencing noise) | `docs/CONTENT-SOURCES.md` §二·五 |
+| 4 | Rewording the logic/motive sentence (anti-gravity field / silent energy / gravity-controlled flight) | `docs/CONTENT-SOURCES.md` §二·五 |
 | 5 | Proof-reading of low-res transcriptions (intro punctuation, poster annotations) | `docs/CONTENT-SOURCES.md` §4 |
 | 6 | **Minimum-disclosure rule**: public pages carry no repo paths, pixel sizes, shell commands or process talk — read `docs/DESIGN-PLAN.md` §4 rule 11 before adding copy | `docs/DESIGN-PLAN.md` |
 | 7 | HIBS Team page member list / portraits / affiliations are still placeholders | `docs/CONTENT-SOURCES.md` §3 |

diff --git a/README.md b/README.md
@@ -103,7 +103,7 @@ python3 tools/slice_assets.py --all    # 连同备用素材一起切
 | 1 | 待批准的设计决策(强调色取印刷码还是实测值、纸块 vs 透明底…) | `docs/DESIGN-PLAN.md` §12 |
 | 2 | 低分辨率素材的矢量 / 高清重绘(标志、app icon、插画) | `docs/DESIGN-PLAN.md` §10.3 |
 | 3 | 需方补齐「待填」内容(名单、指标、邮箱、里程碑) | `docs/CONTENT-SOURCES.md` §3 |
-| 4 | 口径句(时变引力场 / 消除噪音)如需改措辞:落点见 `docs/CONTENT-SOURCES.md` §二·五 | `docs/CONTENT-SOURCES.md` |
+| 4 | 口径句(反引力场 / 无噪音·无限能源 / 可控引力场飞行器)如需改措辞:落点见 `docs/CONTENT-SOURCES.md` §二·五~二·六 | `docs/CONTENT-SOURCES.md` |
 | 5 | 低分辨率转写文字的复核(自述段标点、海报批注) | `docs/CONTENT-SOURCES.md` §4 |
 | 6 | **最小信息披露纪律**:公开页不写仓库路径 / 尺寸 / 命令行 / 过程话术 —— 新增内容前先读 `docs/DESIGN-PLAN.md` §4 纪律 11 | `docs/DESIGN-PLAN.md` |
 | 7 | HIBS 团队页的成员名单 / 头像 / 机构信息仍是占位 | `docs/CONTENT-SOURCES.md` §3 |
